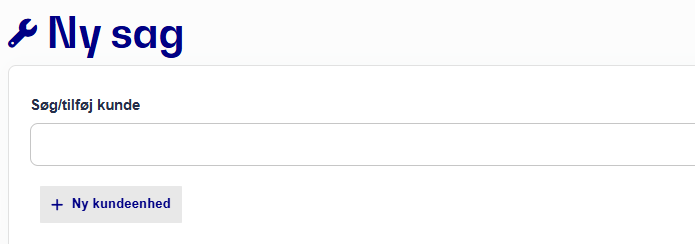
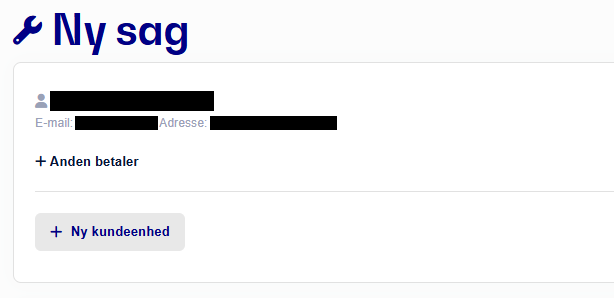
Added search

diff --git a/content/css/style.css b/content/css/style.css
@@ -235,3 +235,39 @@ body {
         margin: 20px 10px;
     }
 }
+
+/* Guide search */
+.guide-search {
+    margin-top: 25px;
+    max-width: 500px;
+}
+
+    .guide-search input {
+        width: 100%;
+        padding: 14px 18px;
+        font: inherit;
+        font-size: 16px;
+        color: var(--color-text, #1f2328);
+        background: var(--color-surface, #ffffff);
+        border: 1px solid var(--color-border, #d8dce3);
+        border-radius: 10px;
+        outline: none;
+        transition: border-color 0.2s, box-shadow 0.2s;
+    }
+
+        .guide-search input::placeholder {
+            color: var(--color-text-muted, #747b86);
+        }
+
+        .guide-search input:focus {
+            border-color: var(--color-accent, #6377d9);
+            box-shadow: 0 0 0 3px color-mix( in srgb, var(--color-accent, #6377d9) 20%, transparent );
+        }
+
+.no-search-results {
+    max-width: 1200px;
+    margin: 0 auto;
+    padding: 0 30px 30px;
+    color: var(--color-text-muted, #747b86);
+    font-size: 16px;
+}

diff --git a/content/js/search.js b/content/js/search.js
@@ -1,0 +1,26 @@
+const searchInput = document.getElementById("guide-search");
+const guideCards = document.querySelectorAll(".option-card");
+const noResults = document.getElementById("no-search-results");
+
+searchInput.addEventListener("input", () => {
+    const searchTerm = searchInput.value
+        .trim()
+        .toLocaleLowerCase("da-DK");
+
+    let visibleCards = 0;
+
+    guideCards.forEach(card => {
+        const cardText = card.textContent
+            .toLocaleLowerCase("da-DK");
+
+        const matches = cardText.includes(searchTerm);
+
+        card.hidden = !matches;
+
+        if (matches) {
+            visibleCards++;
+        }
+    });
+
+    noResults.hidden = visibleCards > 0;
+});

diff --git a/index.html b/index.html
@@ -16,6 +16,14 @@
     <header class="site-header">
         <h1>C1st Guide</h1>
         <p>Vælg hvad du vil gøre.</p>
+
+        <div class="guide-search">
+            <input type="search"
+                   id="guide-search"
+                   placeholder="Søg efter en guide..."
+                   aria-label="Søg efter en guide"
+                   autocomplete="off">
+        </div>
     </header>
 
     <main class="option-grid">
@@ -63,6 +71,12 @@
         </a>
 
     </main>
+
+    <p id="no-search-results" class="no-search-results" hidden>
+        Ingen guides matcher din søgning.
+    </p>
+
+    <script src="content/js/search.js"></script>
 
 </body>
 </html>
